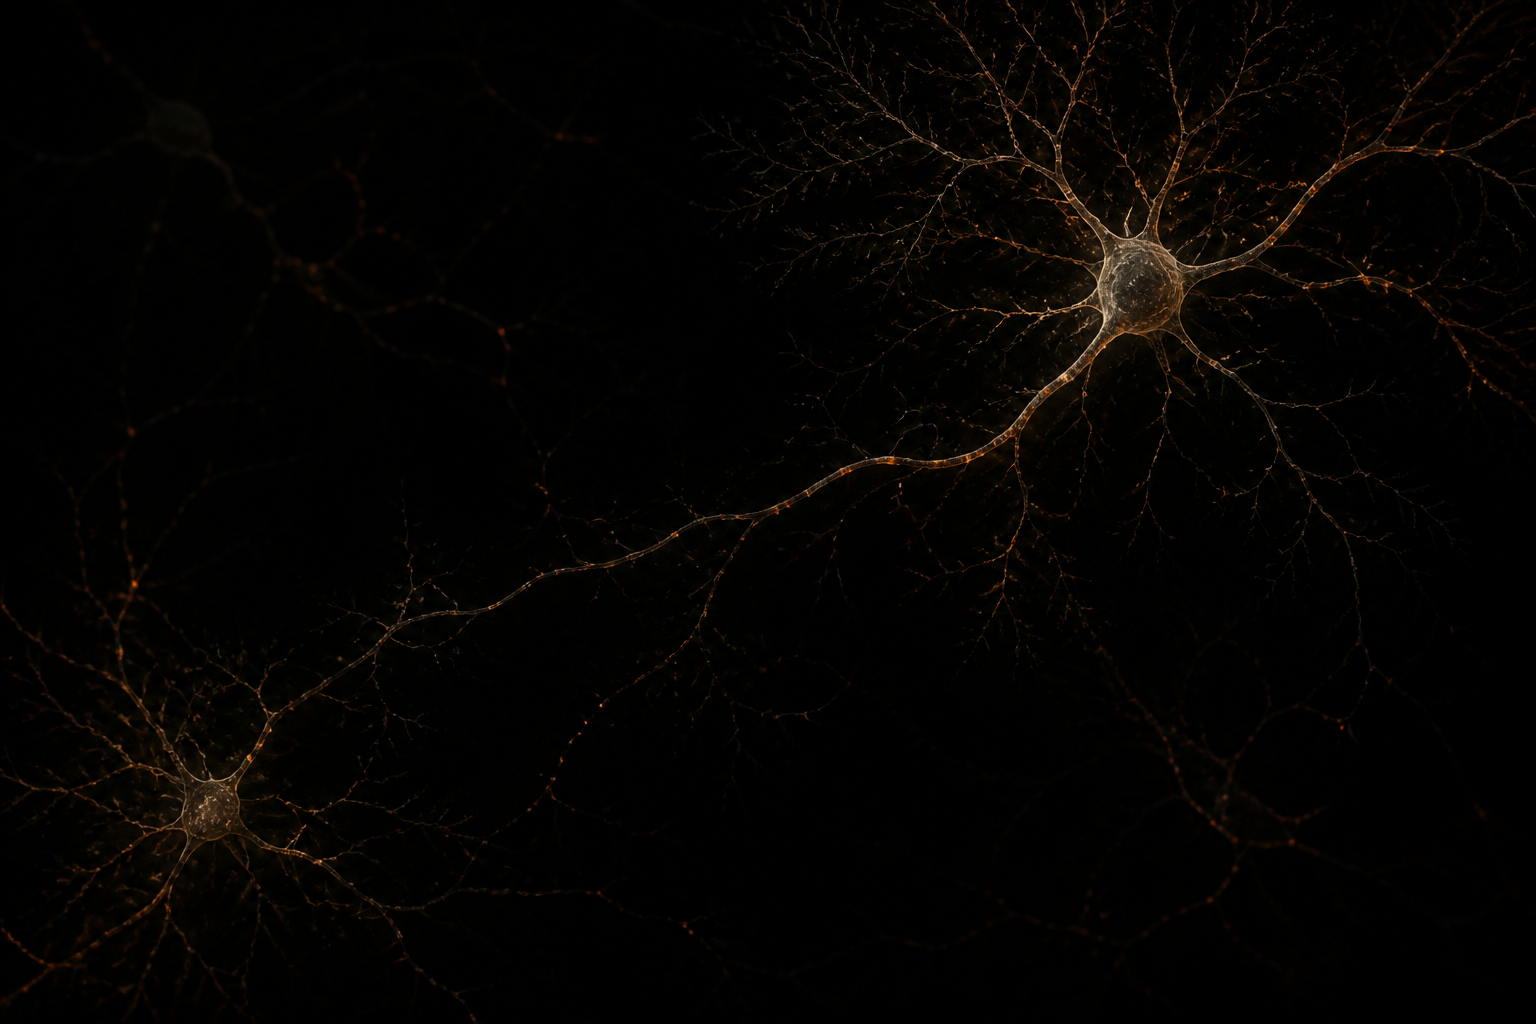
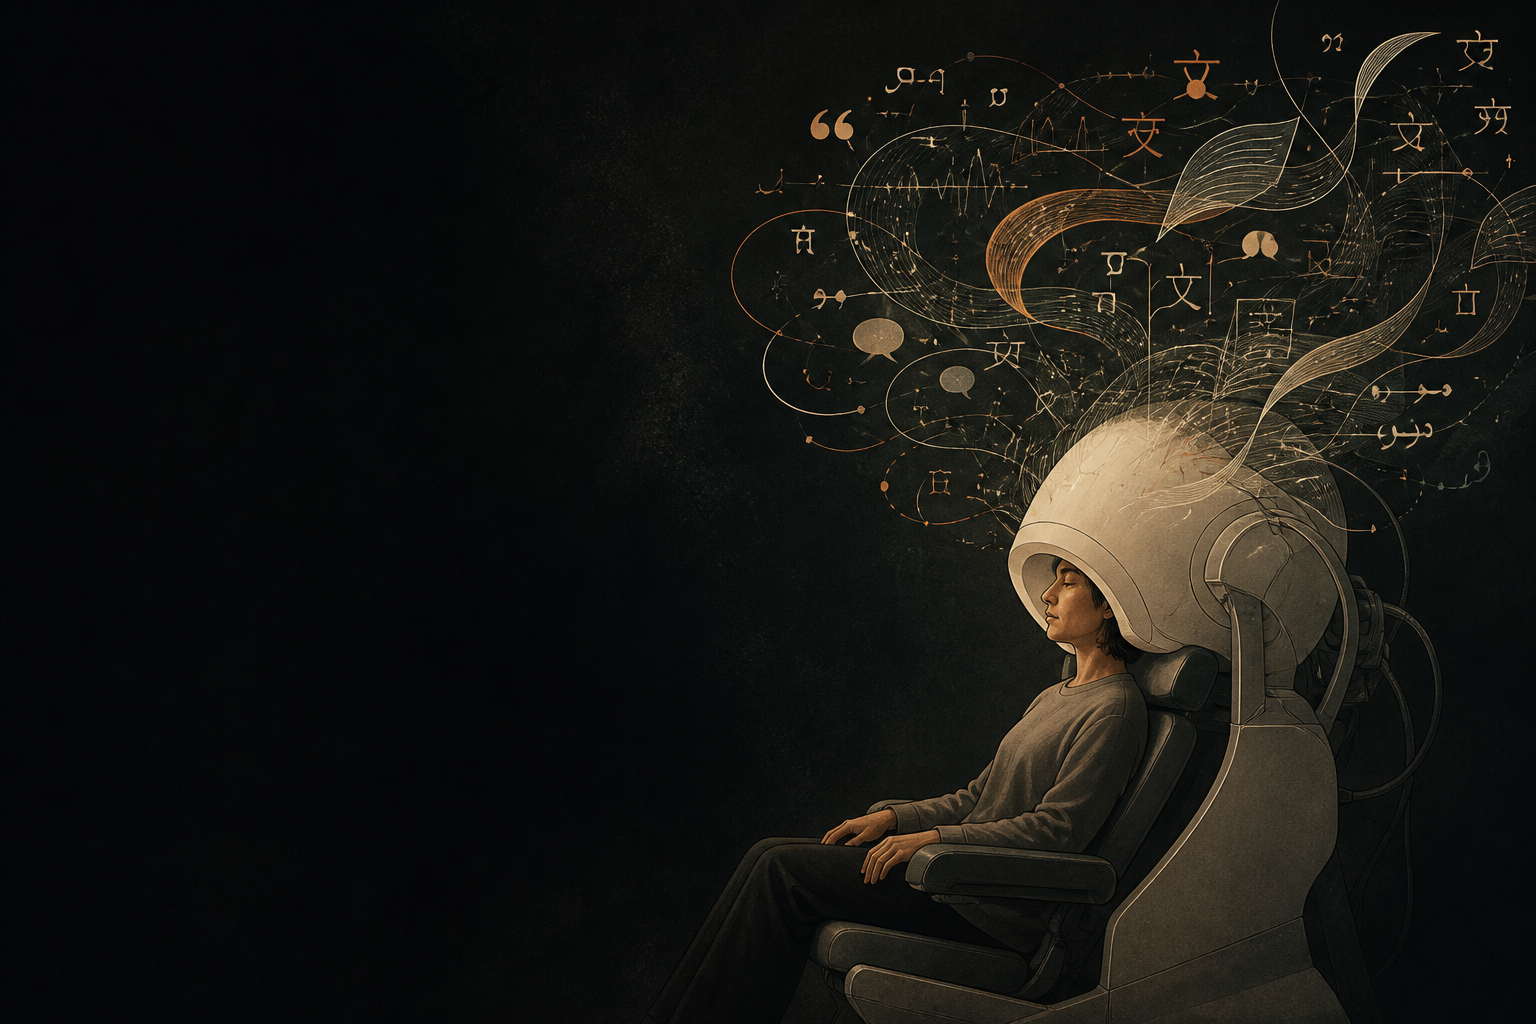
add picture and about

diff --git a/src/App.jsx b/src/App.jsx
@@ -343,7 +343,7 @@ function App() {
             <h1 id="hero-title">Abigail Licata</h1>
             <SocialLinks />
             <p className="role">PhD candidate in neuroscience at the University of Geneva.</p>
-            <p className="statement">Neuroimaging, Language, Open Science.</p>
+            <p className="statement">Neuroimaging. Language. Open Science.</p>
             <a className="primary-link" href="#about">
               Learn more <ArrowDownRight size={19} />
             </a>
@@ -351,24 +351,52 @@ function App() {
         </section>
 
         <section className="research-section" id="about" aria-labelledby="about-title">
-          <div className="section-heading">
-            <span className="section-index">01</span>
-            <h2 id="about-title">About</h2>
+          <div className="about-visual">
+            <div className="section-heading">
+              <span className="section-index">01</span>
+              <h2 id="about-title">About</h2>
+            </div>
+            <div className="about-portrait-frame">
+              <img
+                className="about-portrait"
+                src="/abigail-portrait.jpeg"
+                alt="Abigail Licata smiling in a garden."
+              />
+            </div>
           </div>
 
           <div className="research-intro">
             <p>
-              With a background in the neuroimaging of language function in both healthy
-              and clinical populations, and research experience across four countries,
-              my research interests span language (dis)function across the lifespan,
-              cross-linguistic influences on language processing in multilingual speakers,
-              and open and reproducible neuroimaging practices.
+              I am a cognitive neuroscience PhD student with a background in neuroscience
+              and biology (B.Sc.) and neurocognitive psychology (M.Sc.). I have worked in
+              laboratories and clinics across four countries, integrating multimodal
+              neuroimaging with behavioral and neuropsychological assessments to study
+              language (dis)function across the lifespan. My key interests include language
+              function in primary progressive aphasia, cross-linguistic transfer in
+              multilingualism, and the neural basis of lexical-semantic knowledge. I am
+              heavily engaged in the open science movement, volunteering with several
+              organizations and co-organizing events that help researchers engage with and
+              learn about FAIR practices in psychology and neuroscience. I also collaborate
+              on the{' '}
+              <a
+                href="https://smallworldofwords.org/fr/project"
+                target="_blank"
+                rel="noreferrer"
+              >
+                Small World of Words project
+              </a>
+              .
             </p>
             <p>
-              My doctoral project examines cross-linguistic influences on the behavioral
-              and neural underpinnings of word processing, and the role of semantic control
-              during the processing of ambiguous words and sentences, as measured via
-              magnetoencephalography.
+              Currently, I am working toward my PhD in neuroscience, focusing on
+              cross-linguistic influences on the behavioral and neural underpinnings of word
+              processing and the role of semantic control in processing ambiguous words and
+              sentences, as measured using magnetoencephalography.
+            </p>
+            <p>
+              Outside of my research and volunteer work, I am a mom to a little tot, a dancer,
+              a swimmer, a roller-skater, and a friend to some of the most wonderful people in
+              the world—hopefully that will include you, too :)
             </p>
           </div>
         </section>
@@ -442,14 +470,21 @@ function App() {
           <div className="profile-section-heading">
             <span className="section-index">06</span>
             <h2 id="teaching-title">Teaching &amp; Mentoring</h2>
-            <p>Teaching and mentorship across language, cognitive psychology and neuroscience.</p>
           </div>
           <ProfileList items={teachingItems} />
         </section>
       </main>
 
       <footer>
-        <span>Abigail Licata</span>
+        <div className="footer-identity">
+          <span>Abigail Licata</span>
+          <small>
+            Background image by{' '}
+            <a href="https://unsplash.com/@julientromeur" target="_blank" rel="noreferrer">Julien Tromeur</a>
+            {' '}on{' '}
+            <a href="https://unsplash.com/photos/VY_Io5Ik3u4" target="_blank" rel="noreferrer">Unsplash</a>
+          </small>
+        </div>
         <div className="footer-links">
           <a href="https://archive-ouverte.unige.ch/contributor/991158" target="_blank" rel="noreferrer">UNIGE archive <ArrowUpRight size={15} /></a>
           <a href="https://noce-lab.github.io/" target="_blank" rel="noreferrer">NoCE Lab <ArrowUpRight size={15} /></a>

diff --git a/src/styles.css b/src/styles.css
@@ -63,7 +63,7 @@ a:focus-visible {
   position: fixed;
   inset: 0;
   z-index: -3;
-  background: var(--bg) url('/neuron-background.png') center center / cover no-repeat;
+  background: var(--bg) url('/brain-background.jpg') center center / cover no-repeat;
   opacity: 0.72;
   pointer-events: none;
 }
@@ -339,6 +339,36 @@ section[id] {
   letter-spacing: -0.035em;
 }
 
+.about-visual {
+  min-width: 0;
+}
+
+.about-portrait-frame {
+  position: relative;
+  width: min(100%, 430px);
+  margin-top: clamp(2.5rem, 5vw, 4.5rem);
+  aspect-ratio: 4 / 5;
+  overflow: hidden;
+  border: 1px solid rgba(236, 233, 223, 0.2);
+  background: var(--bg);
+}
+
+.about-portrait-frame::after {
+  content: '';
+  position: absolute;
+  inset: 0;
+  pointer-events: none;
+  box-shadow: inset 0 0 45px rgba(8, 10, 9, 0.16);
+}
+
+.about-portrait {
+  width: 100%;
+  height: 100%;
+  display: block;
+  object-fit: cover;
+  object-position: center 24%;
+}
+
 .publications-section h2 {
   font-size: clamp(3rem, 5vw, 5rem);
   line-height: 0.95;
@@ -354,6 +384,19 @@ section[id] {
 
 .research-intro p {
   margin: 0 0 1.35rem;
+}
+
+.research-intro a {
+  color: var(--accent);
+  text-decoration: underline;
+  text-decoration-color: rgba(214, 110, 54, 0.5);
+  text-underline-offset: 0.2em;
+  transition: color 180ms ease, text-decoration-color 180ms ease;
+}
+
+.research-intro a:hover {
+  color: var(--ivory);
+  text-decoration-color: var(--accent);
 }
 
 .experience-section {
@@ -387,8 +430,14 @@ section[id] {
   margin: 0 auto;
   min-height: 0;
   aspect-ratio: 100 / 62;
-  border-top: 1px solid var(--line);
-  border-bottom: 1px solid var(--line);
+  overflow: hidden;
+  background:
+    radial-gradient(circle at 78% 40%, rgba(214, 110, 54, 0.08), transparent 32%),
+    rgba(5, 7, 6, 0.94);
+  border: 1px solid rgba(236, 233, 223, 0.24);
+  box-shadow:
+    0 28px 70px rgba(0, 0, 0, 0.32),
+    inset 0 0 70px rgba(0, 0, 0, 0.32);
 }
 
 .map-geography {
@@ -397,7 +446,8 @@ section[id] {
   width: 100%;
   height: 100%;
   object-fit: contain;
-  opacity: 0.78;
+  opacity: 1;
+  filter: contrast(1.18) brightness(1.12);
 }
 
 .experience-list {
@@ -754,6 +804,29 @@ footer a {
   color: var(--accent);
 }
 
+.footer-identity {
+  display: grid;
+  gap: 0.45rem;
+}
+
+.footer-identity small {
+  color: #706f67;
+  font-size: 0.68rem;
+  line-height: 1.45;
+}
+
+.footer-identity small a {
+  color: #918f84;
+  text-decoration: underline;
+  text-decoration-color: rgba(145, 143, 132, 0.38);
+  text-underline-offset: 0.18em;
+}
+
+.footer-identity small a:hover {
+  color: var(--ivory);
+  text-decoration-color: var(--accent);
+}
+
 .footer-links {
   display: flex;
   align-items: center;
@@ -879,6 +952,12 @@ footer a {
 
   .research-intro {
     margin-top: 3.5rem;
+  }
+
+  .about-portrait-frame {
+    width: min(100%, 480px);
+    margin-top: 2.5rem;
+    aspect-ratio: 5 / 6;
   }
 
   .experience-section,
